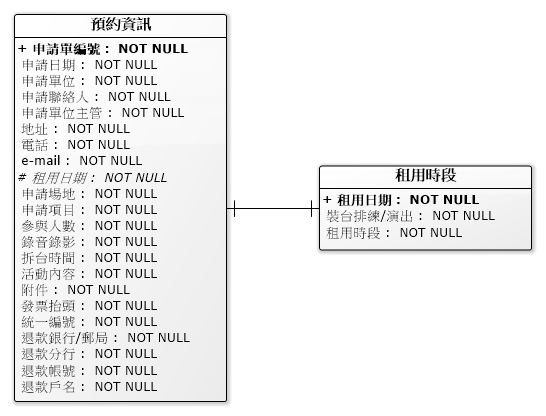
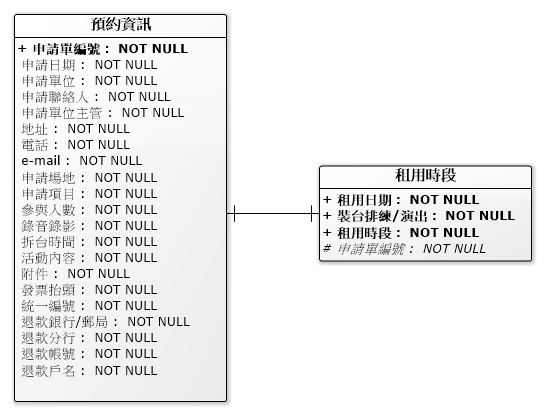
MsSQL fail:FK constraint

Changed region(s): [[0.0311, 0.4062, 0.3425, 0.9375], [0.4048, 0.5, 0.9963, 0.6562]]

diff --git a/InsertPage.html b/InsertPage.html
@@ -56,12 +56,12 @@
                     <li>
                         <form>
                             （1）申請場地：
-                            <select name="aplyLoc">
+                            <select name="facility">
                                 　<option value="音樂廳">音樂廳</option>
                                 　<option value="戲劇廳">戲劇廳</option>
                                 　<option value="舞蹈廳">舞蹈廳</option>
                             </select>
-                            ，參與共<input type="number" name="numofParts" min="1" max="150"/>人
+                            ，參與共<input type="number" name="participant" min="1" max="150"/>人
                         </form>
                     </li>
                     <li>
@@ -133,8 +133,8 @@
 
                     <li>
                         （4）藝文展演與非藝文展演活動，自行安排錄音綠影（需另收2000元）：
-                        <input name="arrange" type=radio value="自行安排">自行安排&emsp;
-                        <input name="arrange" type=radio value="沒有安排">沒有安排<br/><br/>
+                        <input name="record" type=radio value="Y">自行安排&emsp;
+                        <input name="record" type=radio value="N">沒有安排<br/><br/>
                     </li>
                     <li>
                         （5）拆台時間：
@@ -144,17 +144,17 @@
                     </li>
                     <li>
                         （6）活動內容：<br/>
-                        <textarea name="actComment" rows="5" cols="33" placeholder="（節目名稱及簡介，需付企劃書詳細說明）"></textarea><br/><br/>
+                        <textarea name="actContent" rows="5" cols="33" placeholder="（節目名稱及簡介，需付企劃書詳細說明）"></textarea><br/><br/>
                         <input type="file" id="input"><br/><br/>
                     </li>
                     <li>
                         （7）附件：
-                        <input name="a1" type=checkbox value="演出企劃書">演出企劃書&ensp;
-                        <input name="a2" type=checkbox value="演出單位簡介">演出單位簡介&ensp;
-                        <input name="a3" type=checkbox value="租用時段表">租用時段表&ensp;
-                        <input name="a4" type=checkbox value="演出時間表">演出時間表&ensp;
-                        <input name="a5" type=checkbox value="視聽資料">視聽資料&ensp;
-                        <input name="a6" type=checkbox value="其他">其他<br/><br/>
+                        <input name="checkbox" type=checkbox value="演出企劃書">演出企劃書&ensp;
+                        <input name="checkbox" type=checkbox value="演出單位簡介">演出單位簡介&ensp;
+                        <input name="checkbox" type=checkbox value="租用時段表">租用時段表&ensp;
+                        <input name="checkbox" type=checkbox value="演出時間表">演出時間表&ensp;
+                        <input name="checkbox" type=checkbox value="視聽資料">視聽資料&ensp;
+                        <input name="checkbox" type=checkbox value="其他">其他<br/><br/>
                     </li>
                     <li>
                         發票抬頭：<input type="text" name="receipt" size="20"/>&emsp;

diff --git a/InsertPage.php b/InsertPage.php
@@ -60,28 +60,28 @@ function chk_B($dat){
 function timemapping($i){
     // 對照時間表
     switch($i){
-        case 1:
+        case '1':
             return '08:00~09:00';
             break;
-        case 2:
+        case '2':
             return '09:00~12:00';
             break;
-        case 3:
+        case '3':
             return '12:00~13:00';
             break;
-        case 4:
+        case '4':
             return '13:00~17:00';
             break;
-        case 5:
+        case '5':
             return '17:00~18:00';
             break;
-        case 6:
+        case '6':
             return '18:00~22:00';
             break;
-        case 7:
+        case '7':
             return '22:00~24:00';
             break;
-        case 8:
+        case '8':
             return '00:00~02:00';
             break;
     }
@@ -100,6 +100,10 @@ function chk_priori($A, $B){
     static $count = false;
     // ToDo:檢查A早於B
     // 未完成
+}
+
+function datetoString($dat){
+    return (string)$dat;
 }
 
 // #### Main ####
@@ -195,7 +199,7 @@ else{
         echo "<h2>基本資料未輸入尚未齊全，請重新登錄資料!</h2></br>";
         $flag=false;
     }
-    if(empty($_POST['aplyLoc'])||empty($_POST['numofParts'])||empty($_POST['aplyfor'])){
+    if(empty($_POST['facility'])||empty($_POST['participant'])||empty($_POST['aplyfor'])){
         echo "<h2>申請場地資料未輸入尚未齊全，請重新登錄資料!</h2></br>";
         $flag=false;
     }
@@ -208,15 +212,15 @@ else{
         }
     }else{$flag=false;}
 
-    // 附件資料判定
-    $attIsEmp=true;
-    for($i=1;$i<=6;$i++){
-        if(!empty($_POST['a'.(string)$i])){
-            $attIsEmp=false;
-        }
-    }
+    // // 附件資料判定
+    // $attIsEmp=true;
+    // for($i=1;$i<=6;$i++){
+    //     if(!empty($_POST['a'.(string)$i])){
+    //         $attIsEmp=false;
+    //     }
+    // }
     
-    if(empty($_POST['arrange'])||empty($_POST['clstmeStart'])||empty($_POST['clstmeEnd'])||empty($_POST['actComment'])||$attIsEmp==true){
+    if(empty($_POST['record'])||empty($_POST['clstmeStart'])||empty($_POST['clstmeEnd'])||empty($_POST['actContent'])){
         echo "<h2>申請內容資料未輸入尚未齊全，請重新登錄資料!</h2></br>";
         $flag=false;
     }
@@ -305,20 +309,106 @@ else{
 <?php
 	$serverName = "DESKTOP-PGTDFJ7";
 	$connectionInfo = array( "Database"=>"FinalProject", "UID"=>"andywang", "PWD"=>"andy0212", "CharacterSet" => "UTF-8");
-	$conn=sqlsrv_connect($serverName,$connectionInfo);
-    // 申請人 Applicant
-    $applyDate=$_POST['applyDate'];
+    $conn=sqlsrv_connect($serverName,$connectionInfo);
+    
+    // 申請單位資料 Applicant
     $applicant=$_POST['applicant'];
-    $applySupv=$_POST['DeptSupv'];
-	$name=$_POST['contact'];
+    $contact=$_POST['contact'];
+    $aplySupv=$_POST['DeptSupv'];
+	$address=$_POST['address'];
     $phone=$_POST['phone'];
-	$mail=$_POST['mail'];
-    $sql="INSERT INTO dbo.comment(applyDate,name,phone,email) VALUES('$applyDate','$name','$phone','$mail')";
-    // 保證金 Margin
-    // 申請單 Requisition
-    // 訂單 Ordering
-    // 排演時間 Showtime
-    // 演出時間 Rehearsal
-	$quer=sqlsrv_query($conn, $sql) or die("sql error".sqlsrv_errors());
+    $email=$_POST['mail'];
+    $sql="INSERT INTO dbo.Applicant(applicant,contact,aplySupv,address,phone,email) VALUES('$applicant','$contact','$aplySupv','$address','$phone','$email')";
+    $quer=sqlsrv_query($conn, $sql) or die("sql error".sqlsrv_errors());
+
+
+    // 預約資訊 Ordering
+    $aplyDate=datetoString($_POST['applyDate']);
+    $facility=$_POST['facility'];
+    $aplyfor=$_POST['aplyfor'];
+    $participant=$_POST['participant'];
+    $record=$_POST['record'];
+    //$stageTear=datetoString($_POST['clstmeStart']).'-'.datetoString($_POST['clstmeEnd']);
+    $stageTear=datetoString($_POST['clstmeStart']);
+    $actContent=$_POST['actContent'];
+    $attachment=$_POST['checkbox'];
+    $receipt=$_POST['receipt'];
+    $taxId=$_POST['taxId'];
+    
+    //Stop Constraint
+    // $constraintSrt='USE FinalProject 
+    // GO 
+    // EXEC sp_MSforeachtable @command1="ALTER TABLE ? NOCHECK CONSTRAINT ALL" 
+    // GO';
+    // $constraintEnd='USE FinalProject
+    // GO 
+    // EXEC sp_MSforeachtable @command1="ALTER TABLE ? WITH NOCHECK CHECK CONSTRAINT ALL" 
+    // GO';
+    // $quer=sqlsrv_query($conn, $constraintSrt) or die("sql error".sqlsrv_errors());
+
+    $sql="INSERT INTO dbo.Ordering(aplyDate,applicant,facility,aplyfor,participant,record,stageTear,actContent,attachment,receipt,taxId) VALUES(?,?,?,?,?,?,?,?,?,?,?)";
+    $params=array('$aplyDate','$applicant','$facility','$aplyfor','$participant','$record','$stageTear','$actContent','$attachment','$receipt','$taxId');
+    if (sqlsrv_query($conn, $sql, $params)) {  
+        echo "Statement executed.\n";  
+        $quer=sqlsrv_query($conn, $constraintEnd) or die("sql error".sqlsrv_errors());
+    } else {  
+        echo "Error in statement execution.\n";  
+        die(print_r(sqlsrv_errors(), true));  
+    }  
+    // 租用時段 Rentaltime
+    // 日期變數:dat1  時段Array:D1A/B
+    // ERROR:$quer
+    // function schedule_insert($rentDate, $rehearsalShow, $rentTime){
+    //     $sql="INSERT INTO dbo.Rentaltime(rentDate,rehearsalShow,rentTime) VALUES('$rentDate','$rehearsalShow','$rentTime')";
+    //     $quer=sqlsrv_query($conn, $sql) or die("sql error".sqlsrv_errors());
+    // }
+
+    for($i=1;$i<=3;$i++){
+        $d='dat'.(string)$i;
+        if(!empty($_POST[$d])){
+            $rentTimeA=$GLOBALS['d'.(string)$i.'A'];
+            $rentTimeB=$GLOBALS['d'.(string)$i.'B'];
+
+            foreach($rentTimeA as $val){
+                $val=datetoString($val);
+                $sql="INSERT INTO dbo.Rentaltime(rentDate,rehearsalShow,rentTime) VALUES(?,?,?)";
+                $params=array($_POST[$d],'Rehearsal',$val);
+                if (sqlsrv_query($conn, $sql, $params)) {  
+                    echo "Statement executed.\n";  
+                } else {  
+                    echo "Error in statement execution.\n";  
+                    die(print_r(sqlsrv_errors(), true));  
+                }  
+            }
+            foreach($rentTimeB as $val){
+                $val=datetoString($val);
+                $sql="INSERT INTO dbo.Rentaltime(rentDate,rehearsalShow,rentTime) VALUES(?,?,?)";
+                $params=array($_POST[$d],'Show',$val);
+                // $quer=sqlsrv_query($conn, $sql) or die("sql error".sqlsrv_errors());
+                if (sqlsrv_query($conn, $sql, $params)) {  
+                    echo "Statement executed.\n";  
+                } else {  
+                    echo "Error in statement execution.\n";  
+                    die(print_r(sqlsrv_errors(), true));  
+                }
+            }
+        }
+    }
+
+    // 保證金退款 Margin
+    $returnBank=$_POST['bankname'];
+    $returnBranch=$_POST['bankbranch'];
+    $returnAcc=$_POST['returnAcc'];
+    $accName==$_POST['accName'];
+    //$quer=sqlsrv_query($conn, $sql) or die("sql error".sqlsrv_errors());
+
+
+    // 連線用指令
+	// $quer=sqlsrv_query($conn, $sql) or die("sql error".sqlsrv_errors());
+    
+    /* Free connection resources. */  
+    sqlsrv_close($conn);  
+    ?> 
 ?>
+
 </body></html>
